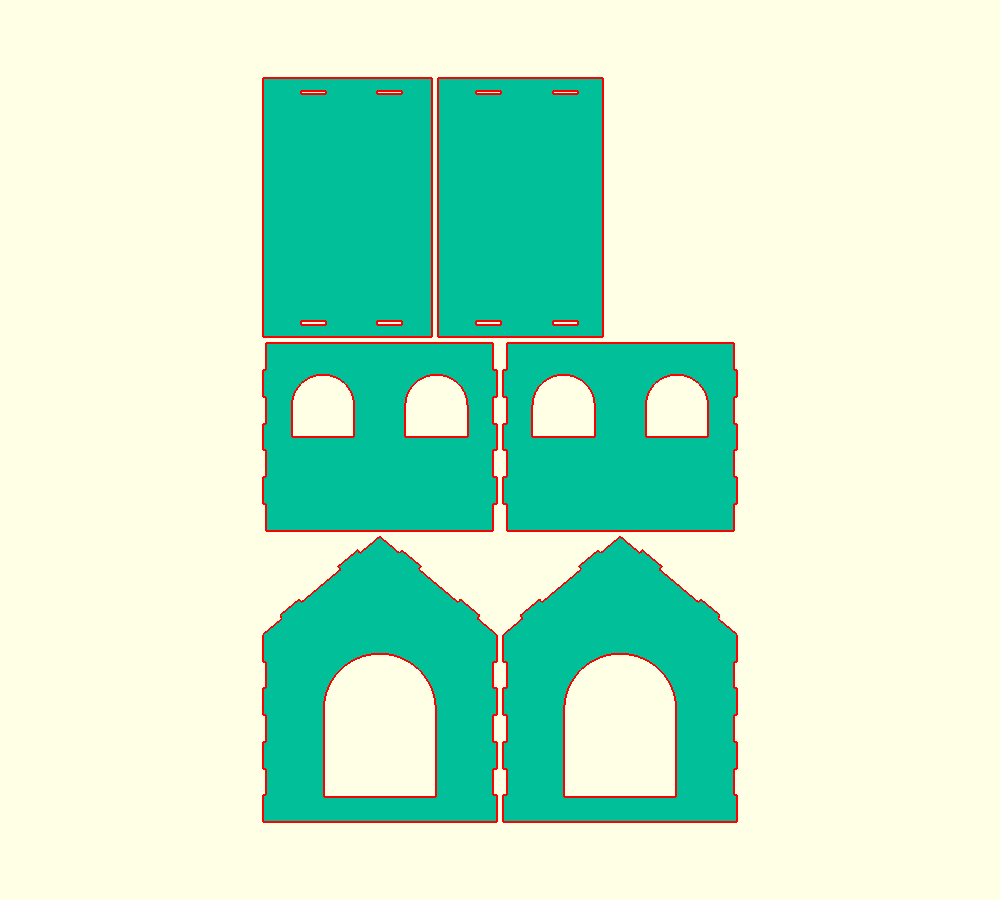
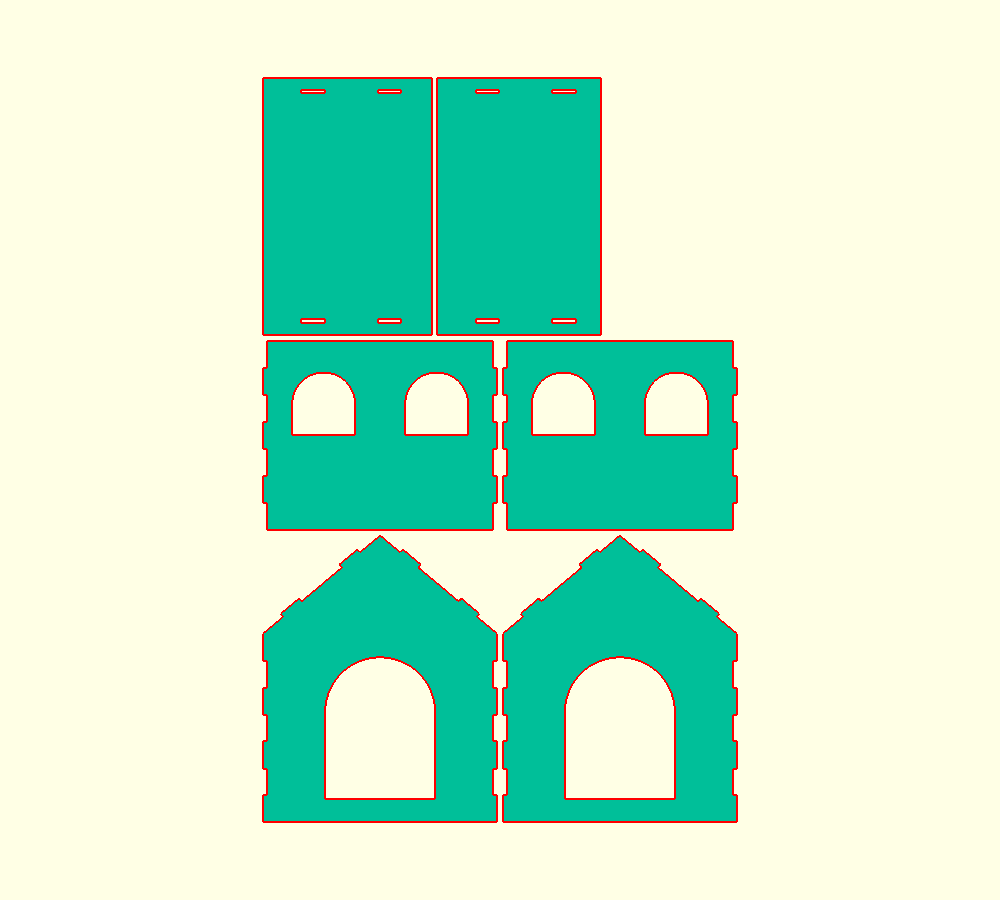
Switch all settings to inches; scale output to mm for export

diff --git a/README.md b/README.md
@@ -18,20 +18,22 @@ A gable-roof cat house with an open bottom that sits over a cardboard scratcher.
 ## Usage
 
 1. Open `house.scad` in OpenSCAD and turn on **Window → Customizer**.
-2. Set your dimensions, `thickness` (measure your real sheet) and `kerf`.
+2. Set your dimensions (all in **inches**), `thickness` (measure your real sheet) and `kerf`.
 3. Render with **F6**, then use **File → Export → SVG** or **DXF**.
 
 From the command line (on Windows, use `openscad.com` to get console output):
 
 ```sh
-openscad -o house.svg -D house_width=350 -D thickness=6 house.scad
+openscad -o house.svg -D thickness=0.22 house.scad
 openscad -o house.png -D 'mode="assembled"' house.scad
 ```
+
+Settings are in inches, but exports are scaled to millimeters (what SVG/DXF and laser software expect), so parts import at the correct real-world size.
 
 Use `part` to export a single panel when the full layout won't fit your laser bed.
 
 ## Tips
 
-- **Kerf:** start at 0.1–0.2 mm and cut a test corner first. Raise it if the joints are loose, lower it if they're too tight.
-- **Thickness:** "6 mm" plywood is often 5.6–6.4 mm. Measure it with calipers.
+- **Kerf:** start at 0.004–0.008" and cut a test corner first. Raise it if the joints are loose, lower it if they're too tight.
+- **Thickness:** nominal 1/4" plywood is often ~0.22". Measure it with calipers.
 - **Scratcher:** the console prints the inside footprint to cut the cardboard to, plus each part's size and any fit warnings.
